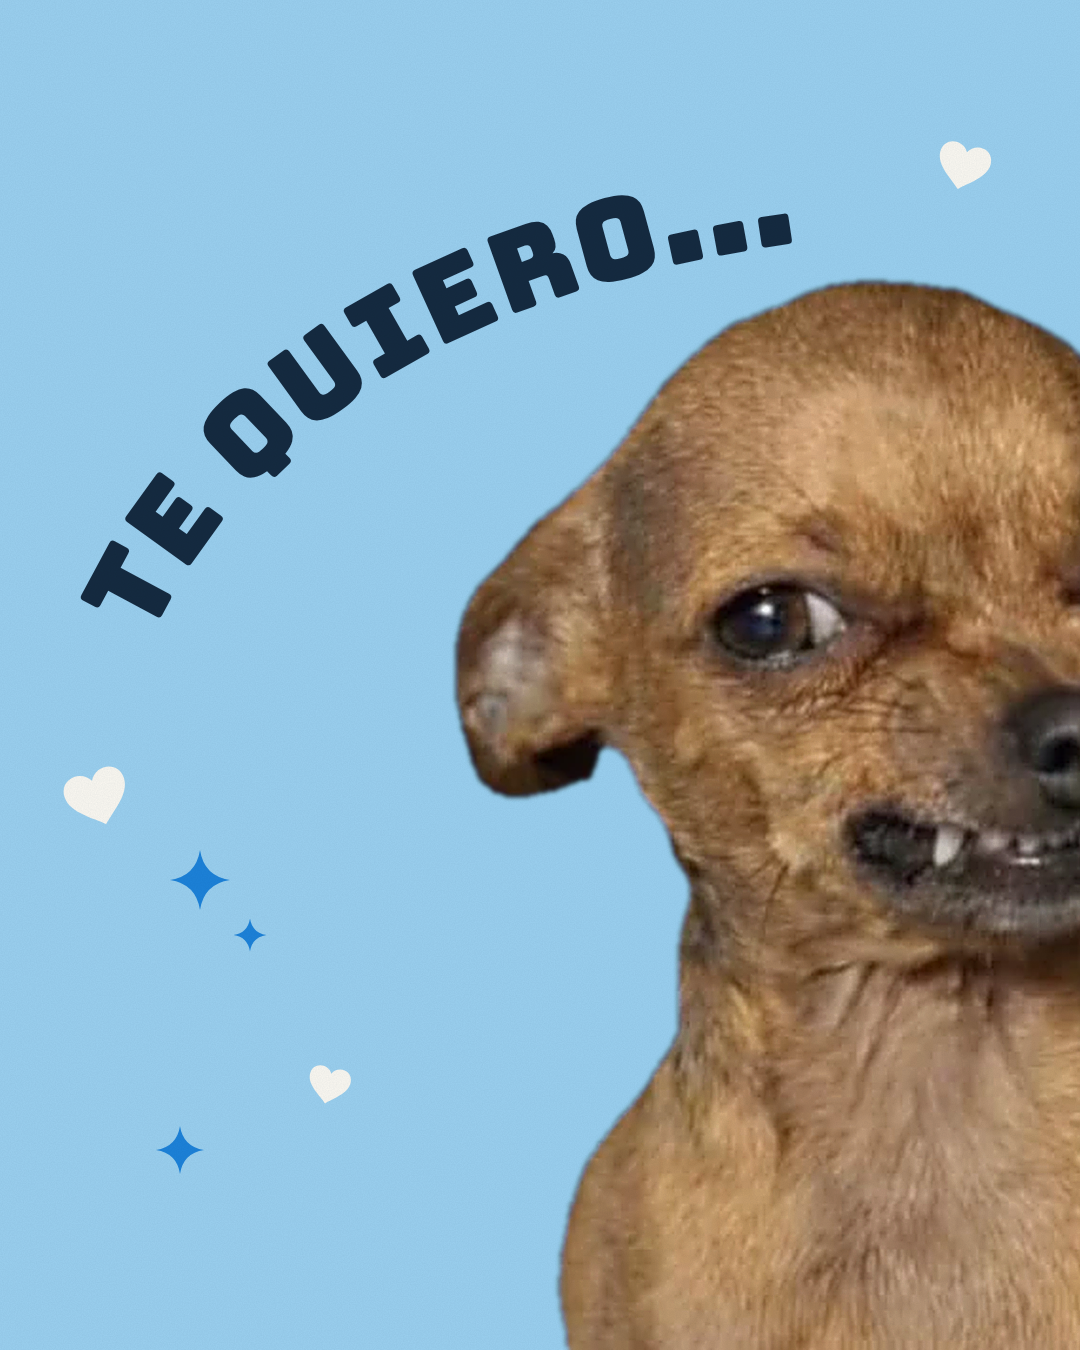
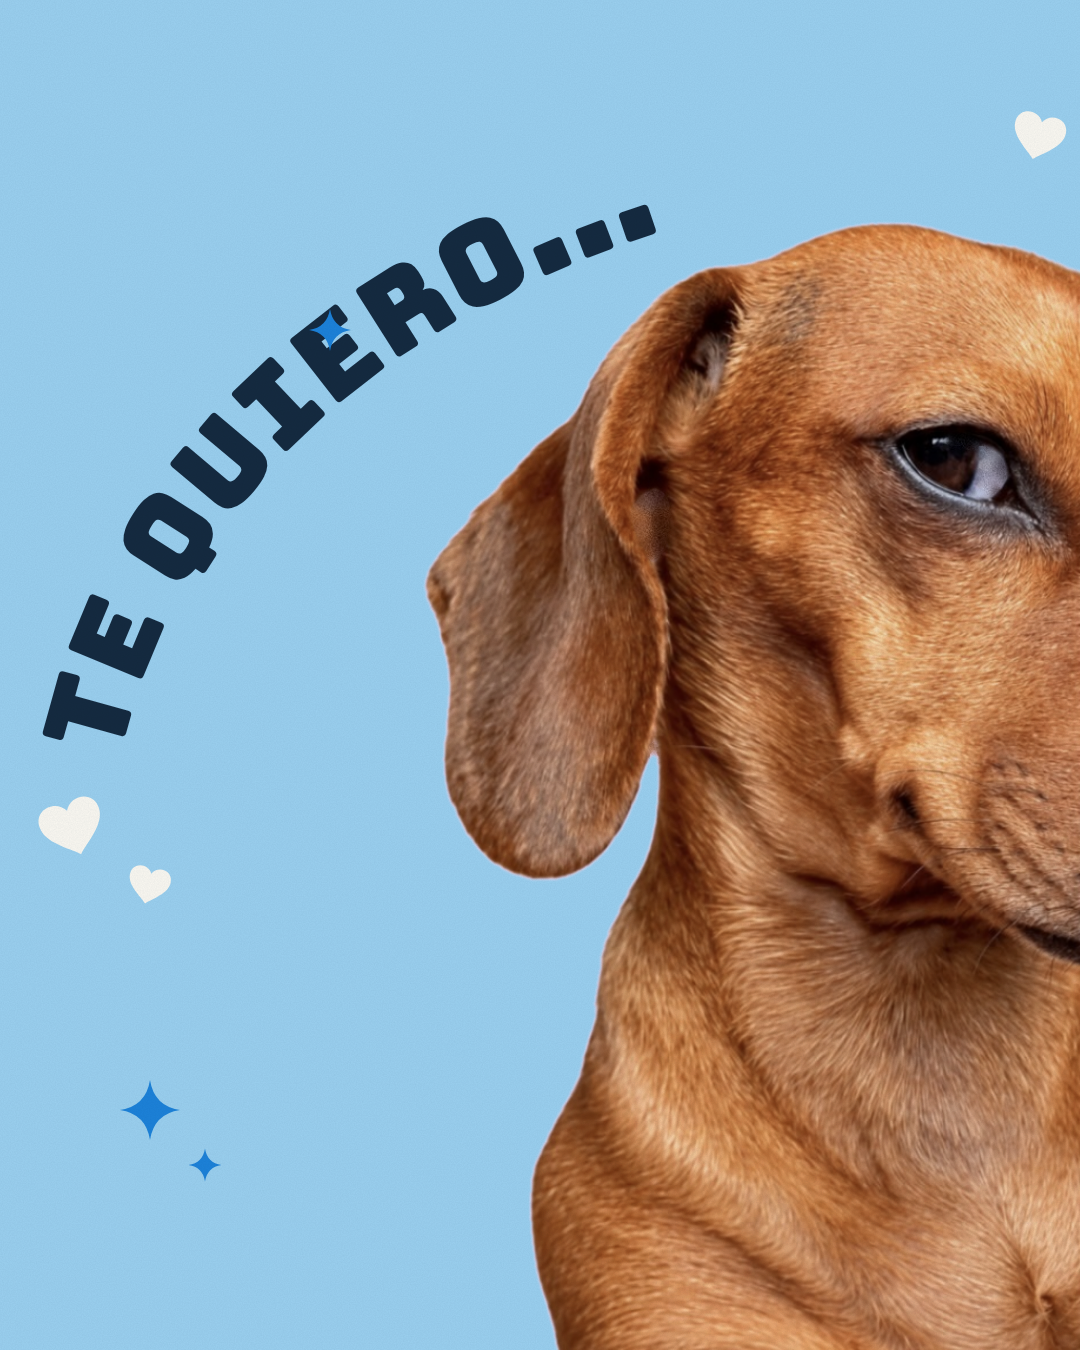
Redes: «Te quiero… pedir un regalito» con el perro de la referencia y el álbum de alfajores (5 productos)
Claude-Session: https://claude.ai/code/session_01FGxw9aPArw9pn3yxwBbtRR

diff --git a/redes/regalito/posteo.html b/redes/regalito/posteo.html
@@ -1,7 +1,7 @@
 <!doctype html>
 <html lang="es"><head><meta charset="utf-8">
 <!-- Carrusel continuo de 2 slides (2160 x 1350, se corta al medio): «Te quiero… pedir un regalito»
-     con los productos de Oficina Gráfica. El perro queda partido entre las dos slides. -->
+     con los 5 productos de Oficina Gráfica. El perro (de la referencia) queda partido entre las dos slides. -->
 <style>
   @font-face{font-family:Bungee;src:url('../../fuentes/Bungee-Regular.ttf');}
   @font-face{font-family:Karla;src:url('../../fuentes/Karla[wght].ttf');font-weight:200 800;}
@@ -17,41 +17,41 @@
     <!-- corazón y destello -->
     <path id="corazon" d="M0 -8C-6 -20 -26 -18 -26 -2C-26 12 -8 22 0 30C8 22 26 12 26 -2C26 -18 6 -20 0 -8Z"/>
     <path id="destello" d="M0 -30Q4 -4 30 0Q4 4 0 30Q-4 4 -30 0Q-4 -4 0 -30Z"/>
-    <path id="arco" d="M150 640C260 400 520 250 960 228"/>
+    <path id="arco" d="M120 760C190 430 520 200 1010 168"/>
   </defs>
   <rect width="2160" height="1350" fill="#9BD0EF"/>
 
   <!-- ===== slide 1 ===== -->
   <text class="bungee" font-size="112" fill="#142A40" letter-spacing="2"><textPath href="#arco">TE QUIERO...</textPath></text>
-  <g fill="#FBF8F1"><use href="#corazon" transform="translate(95 790) rotate(-18) scale(1.2)"/>
-    <use href="#corazon" transform="translate(330 1080) rotate(12) scale(.8)"/>
-    <use href="#corazon" transform="translate(965 160) rotate(14)"/></g>
-  <g fill="#1C82D9"><use href="#destello" transform="translate(200 880)"/><use href="#destello" transform="translate(250 935) scale(.55)"/>
-    <use href="#destello" transform="translate(180 1150) scale(.8)"/></g>
+  <g fill="#FBF8F1"><use href="#corazon" transform="translate(70 820) rotate(-18) scale(1.2)"/>
+    <use href="#corazon" transform="translate(150 880) rotate(12) scale(.8)"/>
+    <use href="#corazon" transform="translate(1040 130) rotate(14)"/></g>
+  <g fill="#1C82D9"><use href="#destello" transform="translate(150 1110)"/><use href="#destello" transform="translate(205 1165) scale(.55)"/>
+    <use href="#destello" transform="translate(330 330) scale(.7)"/></g>
 
-  <!-- el perro, partido justo por la nariz entre las dos slides -->
-  <image href="perro-grande.png" x="450" y="275" width="954" height="1075"/>
+  <!-- el perro de la referencia, partido entre las dos slides en el mismo lugar que el original -->
+  <image href="perro-salchicha.png" x="421" y="220" width="1023" height="1236"/>
 
   <!-- ===== slide 2 ===== -->
-  <g class="bungee" fill="#142A40" font-size="108">
-    <text x="1450" y="240">PEDIR</text>
-    <text x="1640" y="362">UN</text>
-    <text x="1450" y="484">REGALITO</text>
+  <g class="bungee" fill="#142A40" font-size="104">
+    <text x="1470" y="190">PEDIR UN</text>
+    <text x="1470" y="306">REGALITO</text>
   </g>
   <g filter="url(#sombra)">
-    <g transform="translate(1610 715) rotate(-6)"><image href="caja-match.png" x="-166" y="-180" width="332" height="360"/></g>
-    <g transform="translate(1975 690) rotate(5)"><image href="caja-opinologos.png" x="-166" y="-180" width="332" height="360"/></g>
-    <g transform="translate(1600 1105) rotate(6)"><image href="libro-dating-list.png" x="-147" y="-215" width="294" height="430"/></g>
-    <g transform="translate(1965 1095) rotate(-5)"><image href="libro-vinos.png" x="-157" y="-215" width="314" height="430"/></g>
-    <g transform="translate(1365 1210) rotate(-14)"><image href="carta-match-reto.png" x="-74" y="-100" width="148" height="200"/></g>
+    <g transform="translate(1610 590) rotate(-6)"><image href="caja-match.png" x="-138" y="-150" width="277" height="300"/></g>
+    <g transform="translate(1950 580) rotate(5)"><image href="caja-opinologos.png" x="-138" y="-150" width="277" height="300"/></g>
+    <g transform="translate(1985 905) rotate(7)"><image href="album-alfajores.png" x="-167" y="-160" width="334" height="320"/></g>
+    <g transform="translate(1585 1105) rotate(6)"><image href="libro-dating-list.png" x="-113" y="-165" width="226" height="330"/></g>
+    <g transform="translate(1835 1140) rotate(-4)"><image href="libro-vinos.png" x="-121" y="-165" width="241" height="330"/></g>
+    <g transform="translate(1440 1250) rotate(-14)"><image href="carta-match-reto.png" x="-66" y="-89" width="132" height="178"/></g>
   </g>
-  <g fill="#FBF8F1"><use href="#corazon" transform="translate(1790 560) rotate(-10) scale(.9)"/>
-    <use href="#corazon" transform="translate(1440 890) rotate(16) scale(.7)"/>
-    <use href="#corazon" transform="translate(2110 900) rotate(-12) scale(.8)"/>
-    <use href="#corazon" transform="translate(1780 1300) rotate(8) scale(.75)"/></g>
-  <g fill="#1C82D9"><use href="#destello" transform="translate(1420 120) scale(.8)"/>
-    <use href="#destello" transform="translate(1800 905) scale(.9)"/><use href="#destello" transform="translate(1835 945) scale(.5)"/>
-    <use href="#destello" transform="translate(2120 560) scale(.7)"/></g>
+  <g fill="#FBF8F1"><use href="#corazon" transform="translate(1785 445) rotate(-10) scale(.8)"/>
+    <use href="#corazon" transform="translate(1720 860) rotate(16) scale(.7)"/>
+    <use href="#corazon" transform="translate(2100 1250) rotate(-12) scale(.8)"/>
+    <use href="#corazon" transform="translate(1990 1310) rotate(8) scale(.6)"/></g>
+  <g fill="#1C82D9"><use href="#destello" transform="translate(2100 120) scale(.8)"/>
+    <use href="#destello" transform="translate(1500 800) scale(.8)"/><use href="#destello" transform="translate(1540 840) scale(.45)"/>
+    <use href="#destello" transform="translate(2120 700) scale(.6)"/></g>
 
   <rect width="2160" height="1350" filter="url(#grano)" opacity=".22" style="mix-blend-mode:multiply"/>
 </svg>

diff --git a/redes/regalito/recortar_perro.py b/redes/regalito/recortar_perro.py
@@ -1,0 +1,49 @@
+"""Recorta el perro salchicha de las dos capturas de referencia (carrusel continuo sobre fondo rosa).
+
+Las capturas (ref-1.png, ref-2.png) no se suben al repositorio: muestran cuentas y mensajes de terceros.
+
+Uso:  python3 redes/regalito/recortar_perro.py  ->  perro-salchicha.png (con transparencia)
+       y deja en COSTURA (dentro del PNG) la columna donde estaba el corte entre las dos slides.
+
+Se unen las dos slides, se separa el fondo rosa por color y se queda con la mancha conectada
+que contiene al perro (descarta textos, corazones y productos que no lo tocan).
+"""
+import os
+
+import numpy as np
+from PIL import Image, ImageFilter
+from scipy import ndimage
+
+AQUI = os.path.dirname(os.path.abspath(__file__))
+Y0, Y1 = 554, 1895          # alto útil del posteo en la captura (abajo se corta antes del botón de audio)
+ROSA = np.array([248, 218, 247])
+
+slides = [np.asarray(Image.open(os.path.join(AQUI, f)).convert("RGB"))[Y0:Y1] for f in ("ref-1.png", "ref-2.png")]
+img = np.concatenate(slides, axis=1).astype(int)
+ancho_slide = slides[0].shape[1]
+
+dist = np.sqrt(((img - ROSA) ** 2).sum(axis=2))
+r, g, b = img[..., 0], img[..., 1], img[..., 2]
+pelaje = (dist > 38) & ~((b > r - 10) & (b > 150))         # fuera los rosas/lilas de corazones y destellos
+pelaje = ndimage.binary_opening(pelaje, iterations=2)
+etiquetas, _ = ndimage.label(pelaje)
+semilla = etiquetas[700, 1000]                               # un punto del cuello del perro
+perro = ndimage.binary_fill_holes(etiquetas == semilla)
+perro = ndimage.binary_closing(perro, iterations=3)
+# el corazón rosa que tapaba un poco la oreja: se rellena con el pelaje más cercano
+mancha = perro & (r > 205) & (b > r - 10) & (b > 150)  # solo rosa claro: la nariz tiene reflejos azulados
+mancha = ndimage.binary_dilation(mancha, iterations=4) & perro
+_, (iy, ix) = ndimage.distance_transform_edt(mancha, return_indices=True)
+img = img[iy, ix]
+suave = np.stack([ndimage.gaussian_filter(img[..., c].astype(float), 4) for c in range(3)], axis=2)
+# el parche se funde con el pelaje: borde difuminado y un poco de grano para que no quede liso
+peso = ndimage.gaussian_filter(mancha.astype(float), 3)[..., None]
+grano = np.random.default_rng(3).normal(0, 9, img.shape[:2])[..., None]
+img = (img * (1 - peso) + (suave + grano) * peso).clip(0, 255).astype(int)
+alfa = Image.fromarray((perro * 255).astype("uint8")).filter(ImageFilter.GaussianBlur(1.1))
+out = Image.fromarray(img.astype("uint8")).convert("RGBA")
+out.putalpha(alfa)
+caja = out.getbbox()
+out = out.crop(caja)
+out.save(os.path.join(AQUI, "perro-salchicha.png"))
+print("ok perro-salchicha.png", out.size, "costura en x =", ancho_slide - caja[0])

diff --git a/redes/regalito/recortar_alfajores.py b/redes/regalito/recortar_alfajores.py
@@ -1,0 +1,25 @@
+"""Recorta el álbum de alfajores de su foto sobre fondo blanco -> album-alfajores.png (con transparencia).
+
+Se inunda el fondo desde los bordes de la foto (gris claro casi sin color) y queda el álbum.
+"""
+import os
+
+import numpy as np
+from PIL import Image, ImageFilter
+from scipy import ndimage
+
+AQUI = os.path.dirname(os.path.abspath(__file__))
+img = np.asarray(Image.open(os.path.join(AQUI, "alfajores-foto.jpg")).convert("RGB")).astype(int)
+r, g, b = img[..., 0], img[..., 1], img[..., 2]
+claro = (np.minimum(np.minimum(r, g), b) > 200) & ((np.maximum(np.maximum(r, g), b) - np.minimum(np.minimum(r, g), b)) < 18)
+etiquetas, _ = ndimage.label(claro)
+bordes = set(etiquetas[0]) | set(etiquetas[-1]) | set(etiquetas[:, 0]) | set(etiquetas[:, -1])
+fondo = np.isin(etiquetas, [e for e in bordes if e])
+album = ndimage.binary_fill_holes(~fondo)
+album = ndimage.binary_opening(album, iterations=2)
+alfa = Image.fromarray((album * 255).astype("uint8")).filter(ImageFilter.GaussianBlur(.8))
+out = Image.fromarray(img.astype("uint8")).convert("RGBA")
+out.putalpha(alfa)
+out = out.crop(out.getbbox())
+out.save(os.path.join(AQUI, "album-alfajores.png"))
+print("ok album-alfajores.png", out.size)

diff --git a/redes/regalito/productos.py b/redes/regalito/productos.py
@@ -69,7 +69,6 @@ def main():
         carta(os.path.join(RAIZ, "opinologos-muestra-imprenta.pdf"), 1, 4, "carta-opinologos.png", tmp)
         dating_list(tmp)
     shutil.copy(os.path.join(os.path.dirname(AQUI), "vinos", "libro-tapa.png"), os.path.join(AQUI, "libro-vinos.png"))
-    shutil.copy(os.path.join(os.path.dirname(AQUI), "enojo", "perro.png"), os.path.join(AQUI, "perro.png"))
     for f in sorted(os.listdir(AQUI)):
         if f.endswith(".png"):
             print(f, Image.open(os.path.join(AQUI, f)).size)
